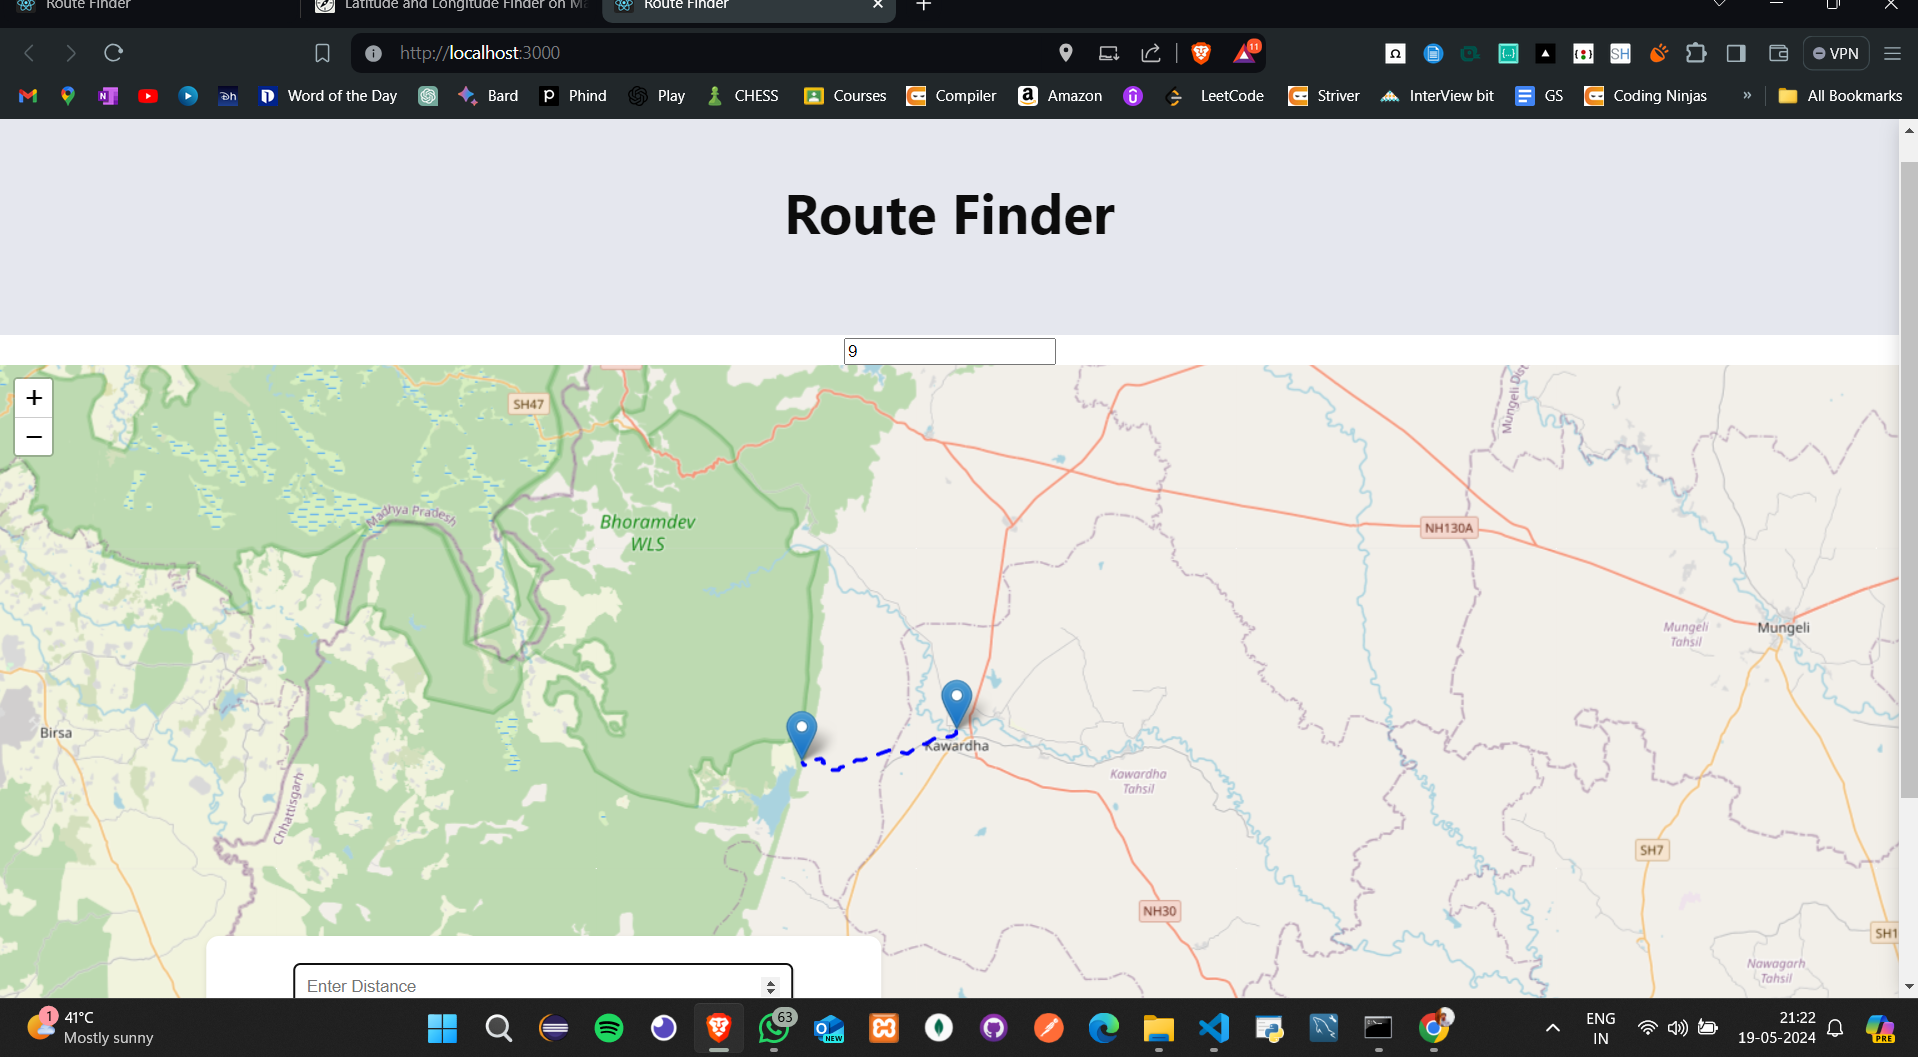
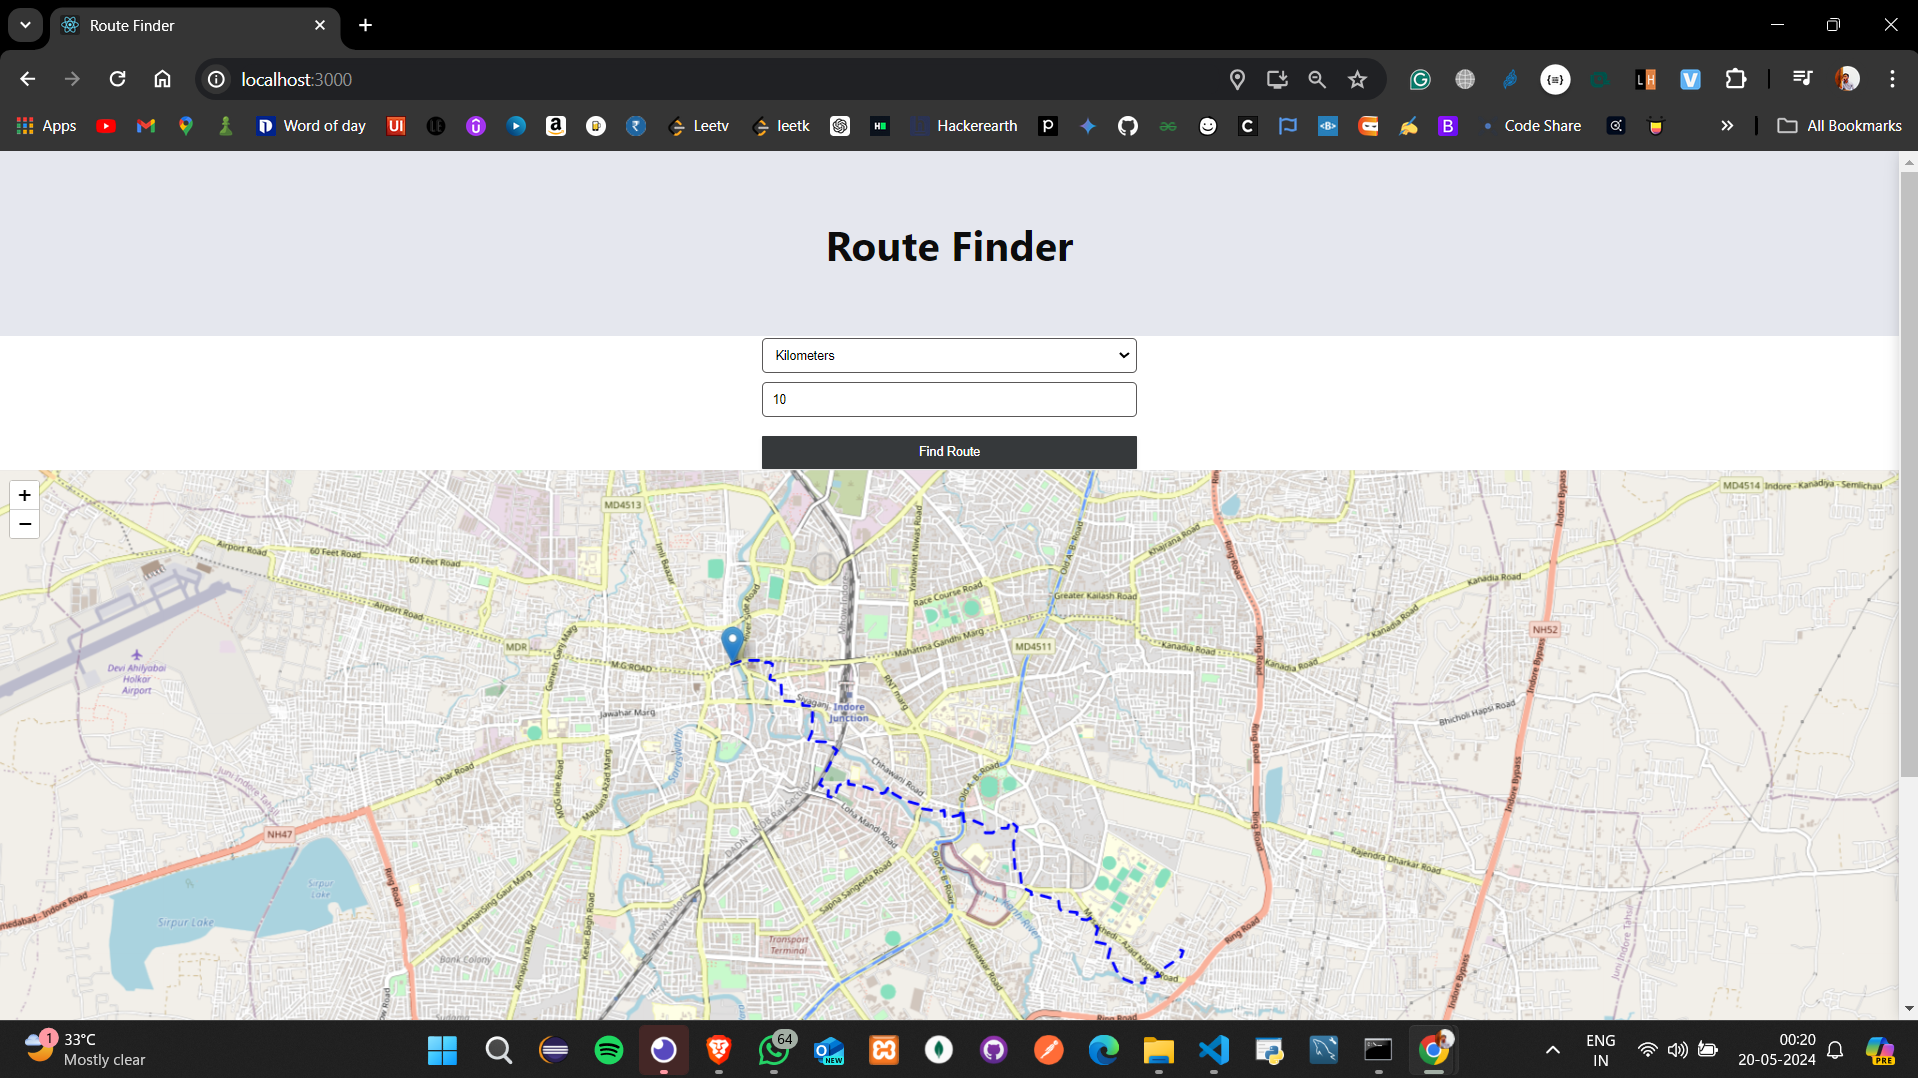
Final Commit

diff --git a/frontend/src/Utils/Api.js b/frontend/src/Utils/Api.js
@@ -121,10 +121,11 @@ const MapWithRoute = () => {
     
     // Trigger route update
     setRoute([]); // Clear previous route if any
+
     if (startPoint) {
       // Convert distance to degrees (approximate)
       const earthRadius = 6371; // Earth's radius in kilometers
-      const angularDistance = (distance/2) / earthRadius;
+      const angularDistance = (distance/2) / earthRadius; // since we need to cover half of the distance only as after that same distance needs to be cover to come back
 
       // Generate random angle in radians
       const randomAngle = Math.random() * 2 * Math.PI;
@@ -164,7 +165,7 @@ const MapWithRoute = () => {
         </form>
         </div>
         {errorMessage && <p className="error-message">{errorMessage}</p>}
-        <MapContainer ref={mapRef} zoom={15} center={startPoint} whenCreated={setMap} style={{ height: '100vh', width: '100%' }}>
+        <MapContainer ref={mapRef} zoom={17} center={startPoint} whenCreated={setMap} style={{ height: '100vh', width: '100%' }}>
           <TileLayer
             url="https://{s}.tile.openstreetmap.org/{z}/{x}/{y}.png"
             attribution='&copy; <a href="https://www.openstreetmap.org/copyright">OpenStreetMap</a> contributors'

diff --git a/frontend/src/App.js b/frontend/src/App.js
@@ -5,10 +5,10 @@ import 'leaflet/dist/leaflet.css';
 import { MapContainer, Popup, TileLayer, Marker } from 'react-leaflet';
 import L from 'leaflet'; // Import Leaflet directly for icon customization
 // import Draggable
-import Draggable from 'react-draggable'; 
+ 
 
 import RouteFinderForm from './components/RouteFinderForm';
-import RouteResults from './components/RouteResults';
+
 import Test from './Utils/Api.js';
 
 // Customizing the default icon
